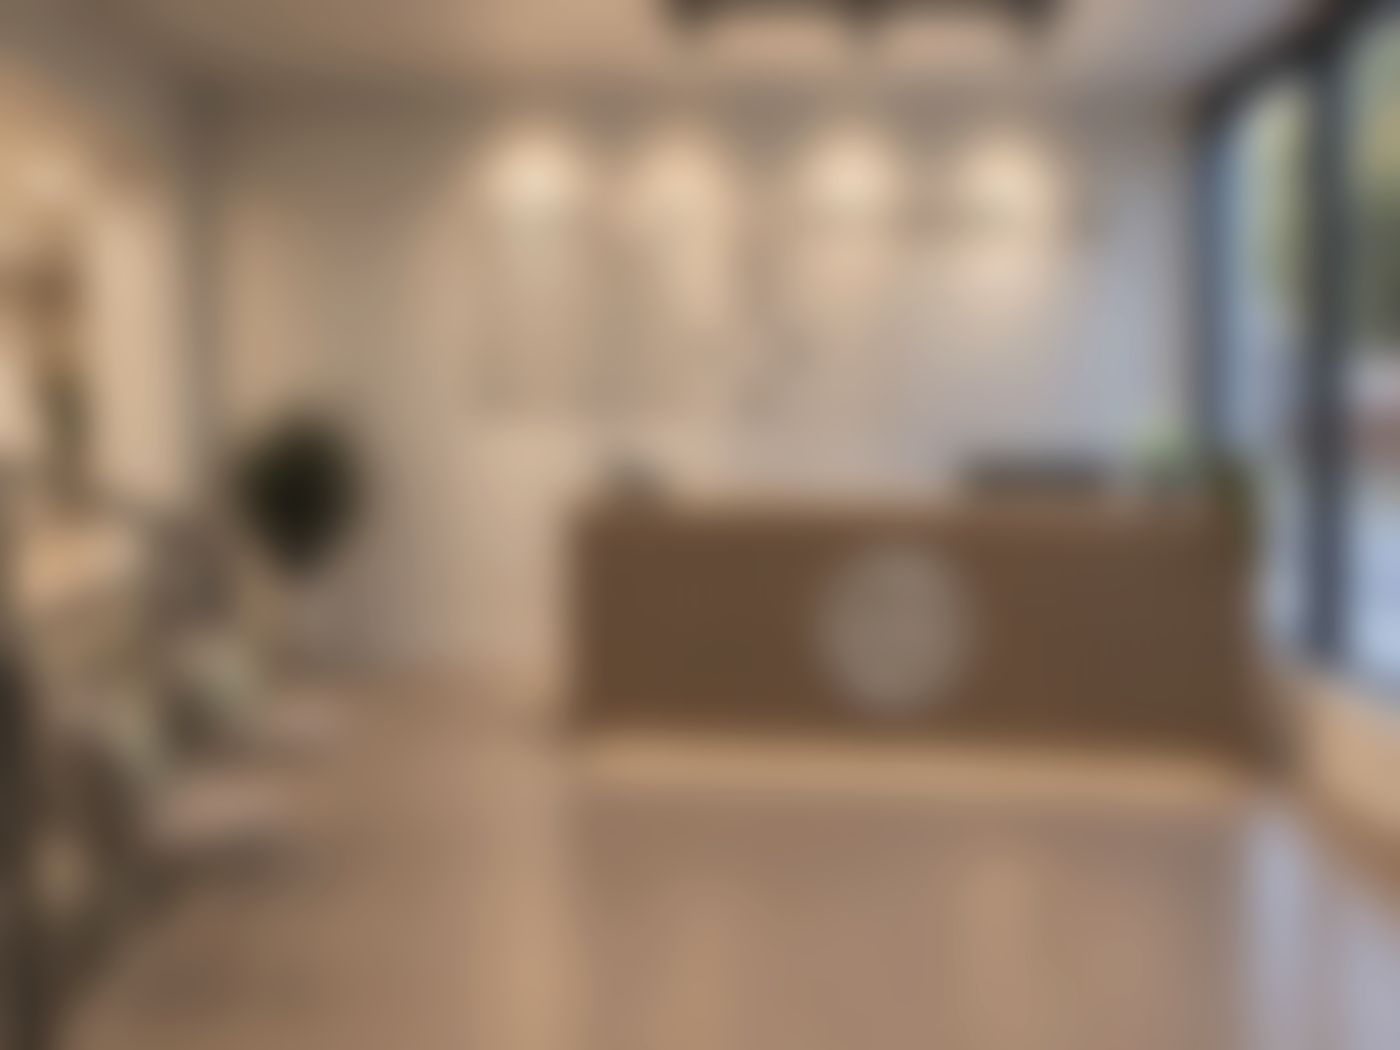
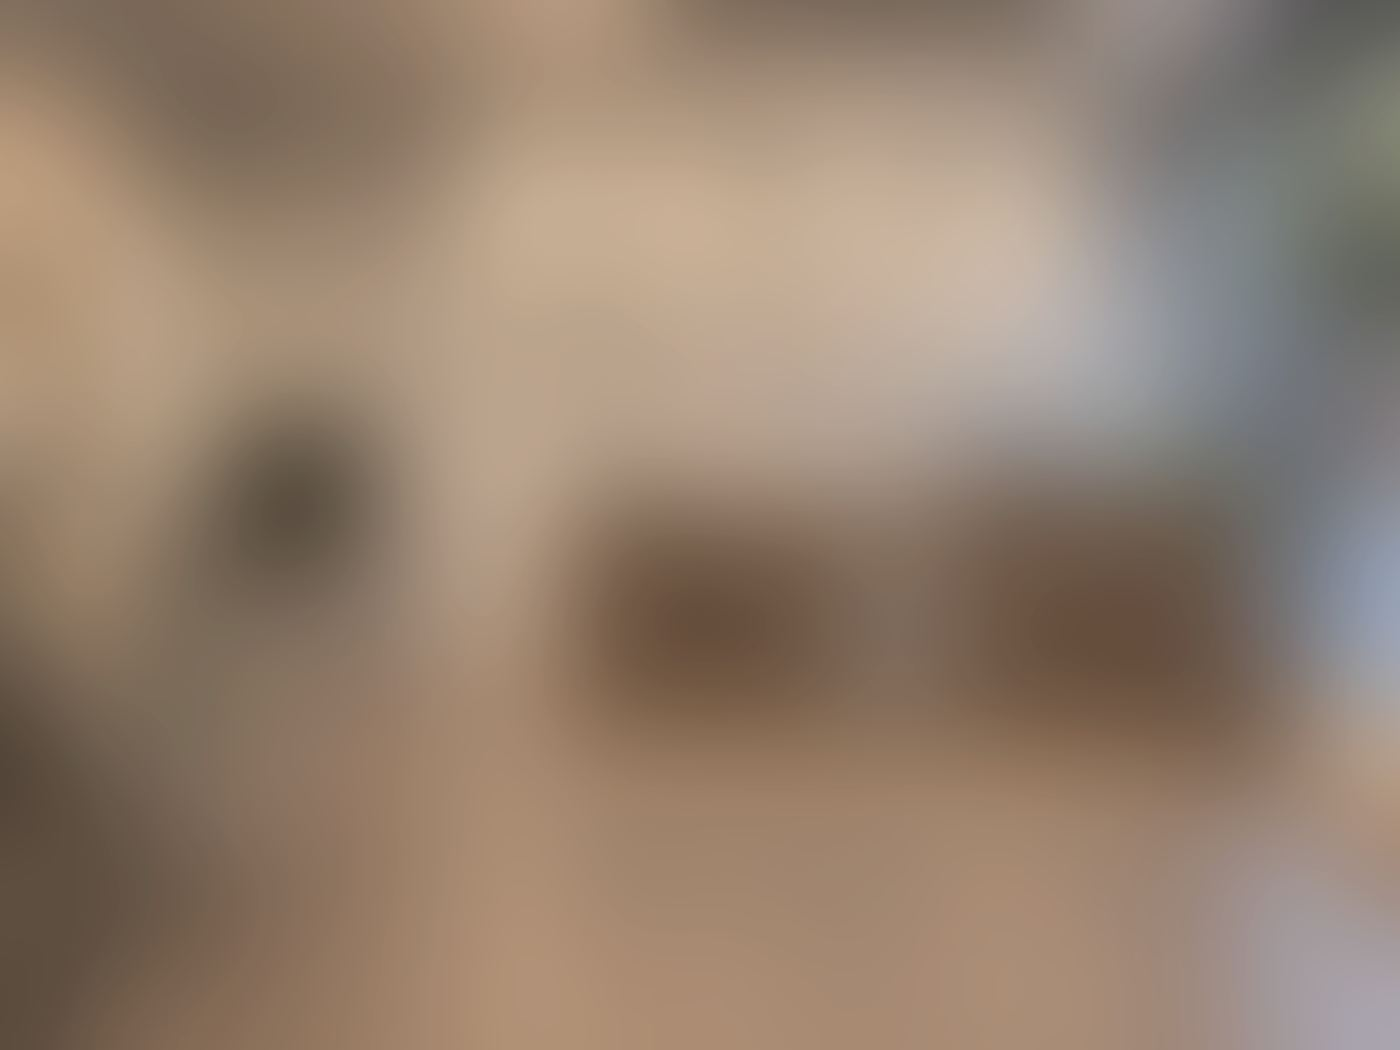
Stronger frost bg, 2x logomark, matching BG/EN headline layout
Blur radius 20 -> 55 for a heavier frosted-glass background, double the logomark size (92px -> 184px desktop, 64px -> 128px mobile), and force the same two-line headline break in both languages (Отваряме/скоро. and Opening/soon.) so the layouts match exactly.

diff --git a/secret/index.html b/secret/index.html
@@ -50,11 +50,11 @@
 
   .wrap { max-width: 620px; width: 100%; text-align: center; }
 
-  .mark { height: 92px; width: auto; margin: 0 auto 36px; display: block; }
+  .mark { height: 184px; width: auto; margin: 0 auto 28px; display: block; }
 
   .kicker {
-    font-size: 80px; font-weight: 700; text-transform: uppercase;
-    letter-spacing: 0.01em; line-height: 1.02; color: #fff;
+    font-size: 68px; font-weight: 700; text-transform: uppercase;
+    letter-spacing: 0.01em; line-height: 1.05; color: #fff;
     margin-bottom: 16px;
   }
 
@@ -81,8 +81,8 @@
   .lang a:hover { border-color: var(--mint); color: var(--mint); }
 
   @media (max-width: 420px) {
-    .mark { height: 64px; margin-bottom: 26px; }
-    .kicker { font-size: 46px; margin-bottom: 12px; }
+    .mark { height: 128px; margin-bottom: 20px; }
+    .kicker { font-size: 42px; margin-bottom: 12px; }
     .sub { font-size: 17px; margin-bottom: 22px; }
     .desc { font-size: 14px; }
   }
@@ -96,7 +96,7 @@
 
   <img class="mark" src="../assets/synrg_Logomark.svg" alt="SYNRG">
 
-  <h1 class="kicker">Отваряме скоро.</h1>
+  <h1 class="kicker">Отваряме<br>скоро.</h1>
   <div class="sub">Ново пространство за възстановяване, терапия и благополучие.</div>
 
   <p class="desc">Създаваме ново пространство, в което възстановяването, терапевтичните грижи и движението се срещат. Място, изградено около твоето тяло, твоите нужди и всеки етап от живота. Разработено заедно с <b>Д-р Желязова</b>, <b>Д-р Соколова</b> и екип от медицински специалисти.</p>

diff --git a/secret/en/index.html b/secret/en/index.html
@@ -50,11 +50,11 @@
 
   .wrap { max-width: 620px; width: 100%; text-align: center; }
 
-  .mark { height: 92px; width: auto; margin: 0 auto 36px; display: block; }
+  .mark { height: 184px; width: auto; margin: 0 auto 28px; display: block; }
 
   .kicker {
-    font-size: 80px; font-weight: 700; text-transform: uppercase;
-    letter-spacing: 0.01em; line-height: 1.02; color: #fff;
+    font-size: 68px; font-weight: 700; text-transform: uppercase;
+    letter-spacing: 0.01em; line-height: 1.05; color: #fff;
     margin-bottom: 16px;
   }
 
@@ -81,8 +81,8 @@
   .lang a:hover { border-color: var(--mint); color: var(--mint); }
 
   @media (max-width: 420px) {
-    .mark { height: 64px; margin-bottom: 26px; }
-    .kicker { font-size: 46px; margin-bottom: 12px; }
+    .mark { height: 128px; margin-bottom: 20px; }
+    .kicker { font-size: 42px; margin-bottom: 12px; }
     .sub { font-size: 17px; margin-bottom: 22px; }
     .desc { font-size: 14px; }
   }
@@ -96,7 +96,7 @@
 
   <img class="mark" src="../../assets/synrg_Logomark.svg" alt="SYNRG">
 
-  <h1 class="kicker">Opening soon.</h1>
+  <h1 class="kicker">Opening<br>soon.</h1>
   <div class="sub">A new space for recovery, therapy &amp; wellbeing.</div>
 
   <p class="desc">We are creating a new kind of space where recovery, therapeutic care and movement come together. A place designed around your body, your needs and every stage of life. Developed with <b>Dr. Zhelyazova</b>, <b>Dr. Sokolova</b> and a team of medical professionals.</p>
